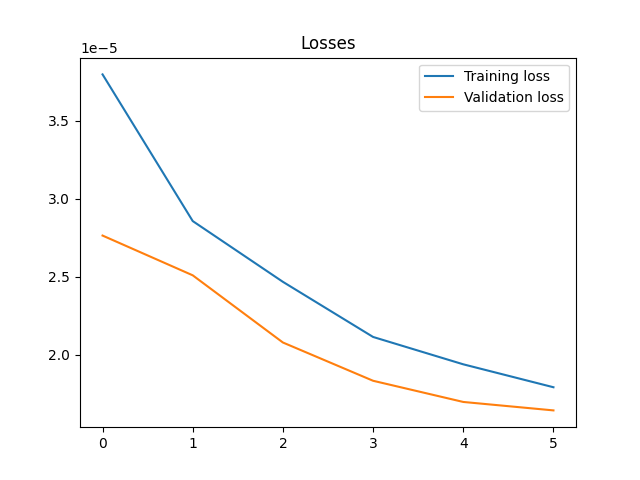
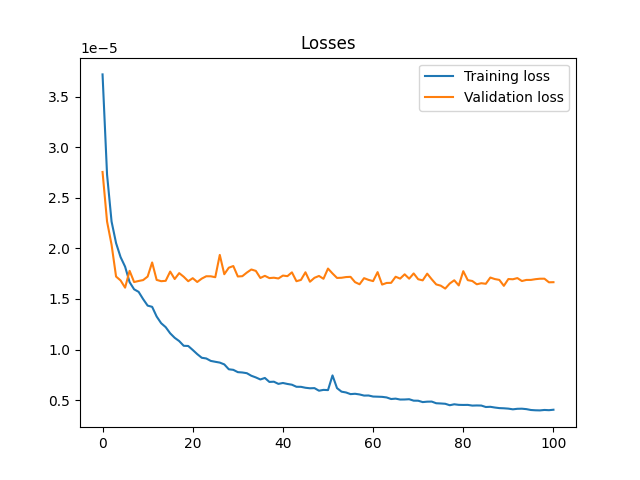
RNN results

diff --git a/main.py b/main.py
@@ -149,7 +149,7 @@ def main():
     parser.add_argument("--wav_path", type=str, default= "wav", help='path of the audio signals')
     parser.add_argument("--vertices_path", type=str, default="vertices_npy", help='path of the ground truth vertex data')
     parser.add_argument("--gradient_accumulation_steps", type=int, default=1, help='gradient accumulation')
-    parser.add_argument("--max_epoch", type=int, default=5, help='number of epochs')
+    parser.add_argument("--max_epoch", type=int, default=100, help='number of epochs')
     parser.add_argument("--device", type=str, default="cuda")
     parser.add_argument("--template_file", type=str, default="templates.pkl", help='path of the train subject templates')
     parser.add_argument("--save_path", type=str, default="save", help='path to save the trained models')
